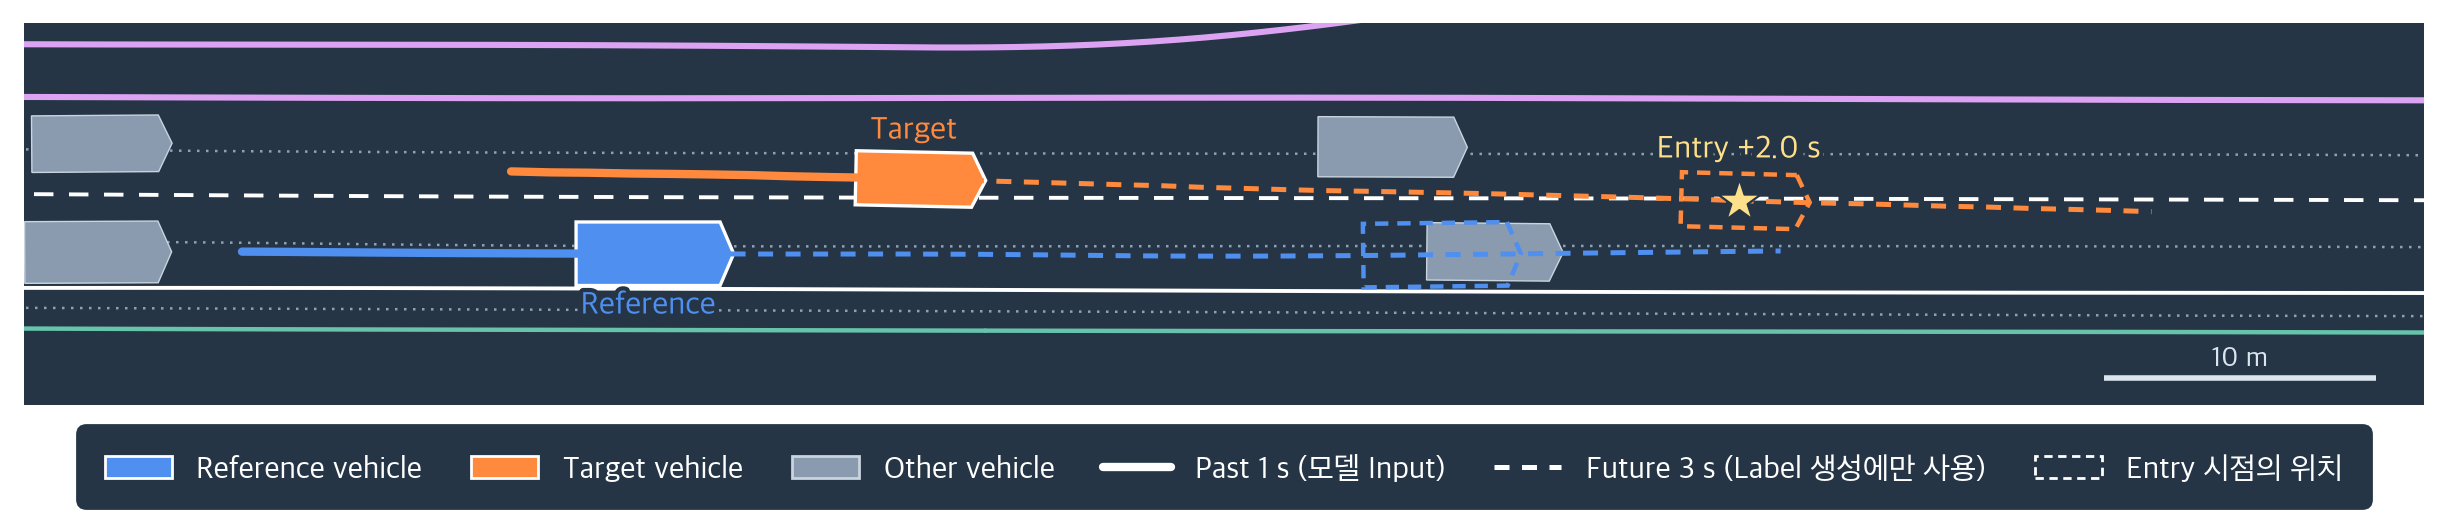
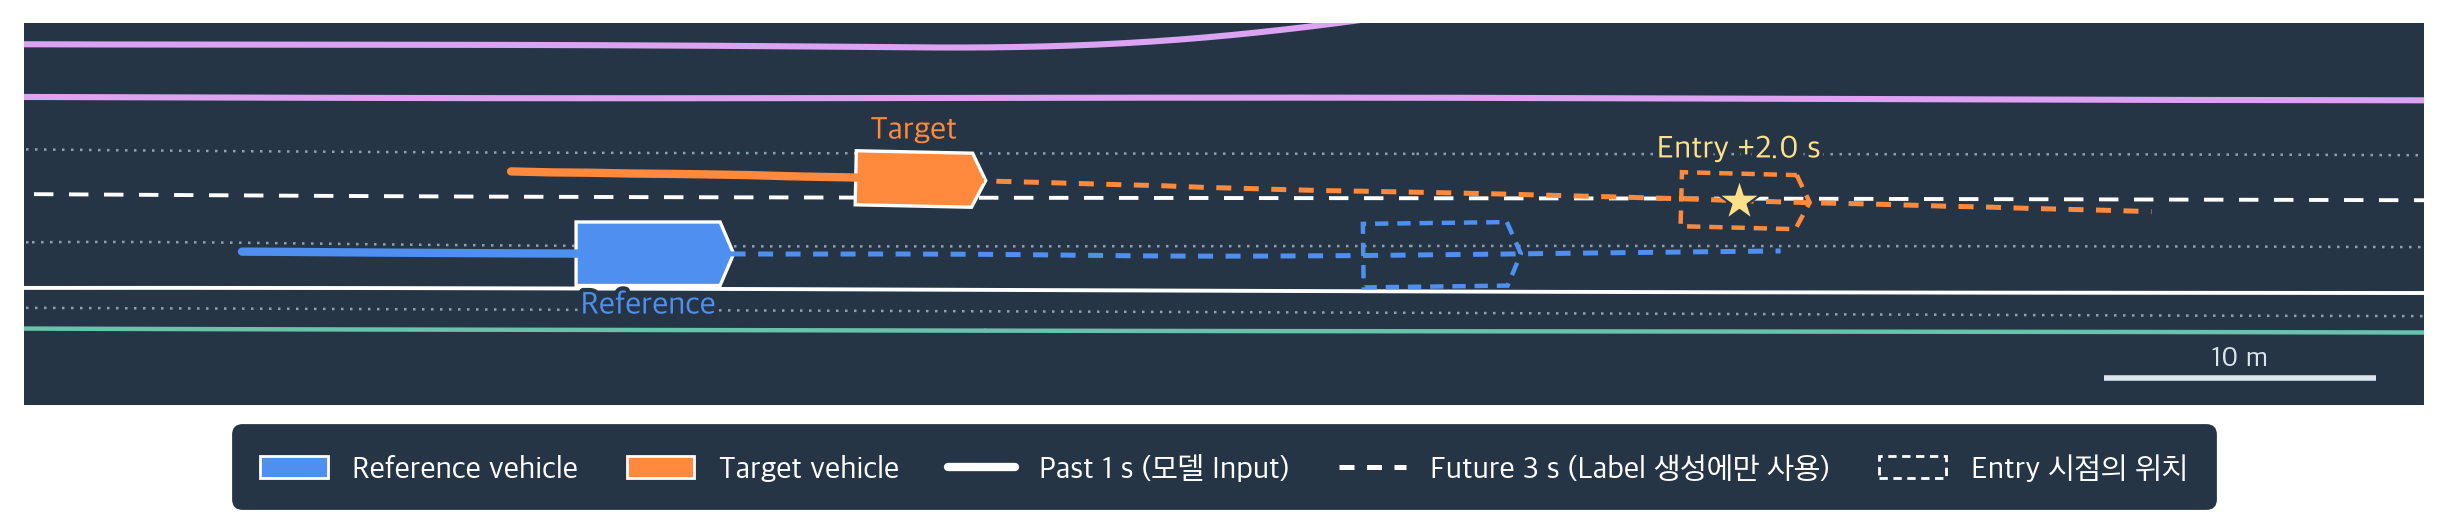
문제 정의·라벨 규칙 그림에서 주변 차량 제거

diff --git a/src/plots/pipeline.py b/src/plots/pipeline.py
@@ -36,13 +36,17 @@ def maneuver_bounds(tracks, row):
 
 
 def draw_maneuver(ax, items, scene, tracks, row, bounds):
-    """기준 시점(0초)의 장면에 과거 1초(실선)와 미래 3초(점선), 진입 확인 위치(점선 상자)를 겹쳐 그린다."""
+    """기준 시점(0초)의 Reference와 Target만 그리고 과거 1초(실선), 미래 3초(점선), 진입 확인 위치(점선 상자)를 겹친다.
+
+    주변 차량은 두 차량의 움직임을 가려서 이 그림에서는 그리지 않는다.
+    """
     ref_id, tgt_id = int(row["reference_id"]), int(row["target_id"])
     ref, tgt = tracks[ref_id], tracks[tgt_id]
     t0, entry = int(row["anchor_frame"]), int(row["entry_frame"])
     transform, _ = frame_of(ref[t0])
     draw_road(ax, items, transform)
-    draw_agents(ax, scene, tracks, t0, transform, roles={ref_id: (REF, "Reference"), tgt_id: (TGT, "Target")}, show_people=False)
+    draw_agents(ax, scene, tracks, t0, transform, roles={ref_id: (REF, "Reference"), tgt_id: (TGT, "Target")},
+                show_people=False, show_others=False)
     last = min(t0 + HORIZON, len(ref) - 1)
     for states, color in ((ref, REF), (tgt, TGT)):
         past = transform(states[t0 - HISTORY:t0 + 1, :2])
@@ -71,7 +75,7 @@ def plot_cutin_example(output_dir, scene, items, tracks, row):
     fig = plt.figure(figsize=(width, width * np.ptp(bounds[1]) / np.ptp(bounds[0])))
     ax = fig.add_axes([0, 0, 1, 1])
     draw_maneuver(ax, items, scene, tracks, row, bounds)
-    legend_below(ax, road_legend()[:3] + maneuver_legend(), ncol=6)
+    legend_below(ax, road_legend()[:2] + maneuver_legend(), ncol=5)
     save(fig, output_dir, "01_cutin_example")
 
 

diff --git a/src/plots/scene.py b/src/plots/scene.py
@@ -96,10 +96,11 @@ def draw_vehicle(ax, state, transform, color, label=None, z=6, label_side=1):
                     zorder=z + 2, path_effects=LABEL_SHADOW)
 
 
-def draw_agents(ax, scene, tracks, frame, transform, roles=None, show_people=True):
+def draw_agents(ax, scene, tracks, frame, transform, roles=None, show_people=True, show_others=True):
     """한 시점의 모든 차량(주변 차량은 회색)과 보행자·자전거를 그린다. roles = {차량 ID: (색, 이름표)}.
 
     역할 차량이 두 대이면 서로의 이름표가 겹치지 않도록 상대 차량 쪽의 반대편에 이름표를 붙인다.
+    show_others=False이면 roles에 있는 차량만 그린다.
     """
     roles = roles or {}
     sides = {}
@@ -109,7 +110,7 @@ def draw_agents(ax, scene, tracks, frame, transform, roles=None, show_people=Tru
         sides = {first: -1 if y_second > y_first else 1, second: 1 if y_second > y_first else -1}
     for track in scene.tracks:
         state = tracks[track.id][frame]
-        if state[7] <= 0:
+        if state[7] <= 0 or (not show_others and track.id not in roles):
             continue
         if track.object_type == 1:
             color, label = roles.get(track.id, (OTHER, None))
